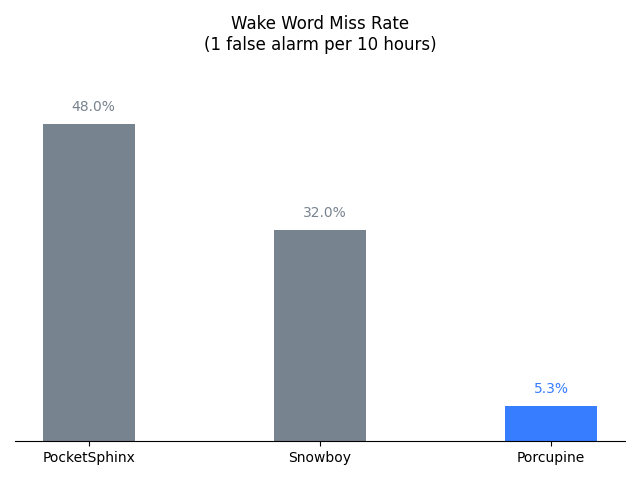
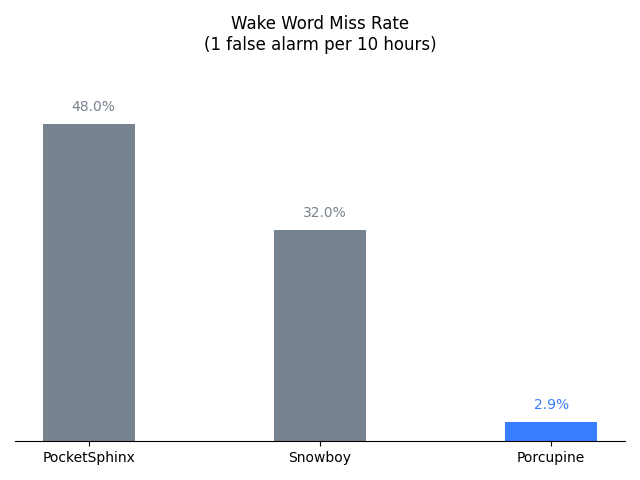
v2.0

Changed region(s): [[0.7812, 0.7812, 0.9375, 0.9062]]

diff --git a/benchmark.py b/benchmark.py
@@ -26,7 +26,7 @@ logging.basicConfig(format='%(asctime)s:%(levelname)s:%(message)s', level=loggin
 
 
 def run_sensitivity(pcm, num_frames, labels, num_keywords, engine_type, sensitivity):
-    detector = Engine.create(engine_type, keyword=args.keyword, sensitivity=sensitivity)
+    detector = Engine.create(engine_type, keyword=args.keyword, sensitivity=sensitivity, access_key=args.access_key)
 
     frame_length = Engine.frame_length()
 
@@ -64,7 +64,7 @@ def run(engine_type, min_false_alarm=0.1, max_false_alarm=0.1):
     frame_length = Engine.frame_length()
     num_frames = pcm.size // frame_length
 
-    labels = np.zeros((num_frames,), dtype=np.bool)
+    labels = np.zeros((num_frames,), dtype=bool)
     for start_sec, end_sec in keyword_times_sec:
         start_frame = int(start_sec * Dataset.sample_rate() // frame_length)
         end_frame = int((end_sec * Dataset.sample_rate() + (frame_length - 1)) // frame_length)
@@ -102,6 +102,7 @@ parser = argparse.ArgumentParser()
 parser.add_argument('--librispeech_dataset_path', required=True)
 parser.add_argument('--demand_dataset_path', required=True)
 parser.add_argument('--keyword', required=True)
+parser.add_argument('--access-key', required=True)
 
 if __name__ == '__main__':
     args = parser.parse_args()

diff --git a/engine.py b/engine.py
@@ -61,11 +61,11 @@ class Engine(object):
             raise ValueError("no sensitivity range for '%s'", engine_type.value)
 
     @staticmethod
-    def create(engine, keyword, sensitivity):
+    def create(engine, keyword, sensitivity, **kwargs):
         if engine is Engines.POCKET_SPHINX:
             return PocketSphinxEngine(keyword, sensitivity)
         elif engine is Engines.PORCUPINE:
-            return PorcupineEngine(keyword, sensitivity)
+            return PorcupineEngine(keyword, sensitivity, **kwargs)
         elif engine is Engines.SNOWBOY:
             return SnowboyEngine(keyword, sensitivity)
         else:
@@ -104,8 +104,9 @@ class PocketSphinxEngine(Engine):
 
 
 class PorcupineEngine(Engine):
-    def __init__(self, keyword, sensitivity):
+    def __init__(self, keyword, sensitivity, access_key):
         self._porcupine = Porcupine(
+            access_key=access_key,
             library_path=os.path.join(self._repo_path, 'lib/linux/x86_64/libpv_porcupine.so'),
             model_path=os.path.join(self._repo_path, 'lib/common/porcupine_params.pv'),
             keyword_paths=[os.path.join(self._repo_path, 'resources/keyword_files/linux/%s_linux.ppn' % keyword.lower())],

diff --git a/README.md b/README.md
@@ -8,47 +8,62 @@ The purpose of this benchmarking framework is to provide a scientific comparison
 engines in terms of accuracy and runtime metrics. While working on [Porcupine](https://github.com/Picovoice/Porcupine)
 we noted that there is a need for such a tool to empower customers to make data-driven decisions.
 
-# Data
+## Table of Contents
+- [Wake Word Benchmark](#wake-word-benchmark)
+  - [Table of Contents](#table-of-contents)
+  - [Results](#results)
+    - [Accuracy](#accuracy)
+    - [Runtime](#runtime)
+  - [Data](#data)
+  - [Engines](#engines)
+  - [How to Reproduce?](#how-to-reproduce)
+
+## Results
+
+### Accuracy
+
+Below is the result of running the benchmark framework averaged on six different keywords. The plot below shows the miss
+rate of different engines at 1 false alarm per 10 hours. The lower the miss rate the more accurate the engine is.
+
+![](doc/img/summary.png)
+
+### Runtime
+
+Below is the runtime measurements on a Raspberry Pi 3. For Snowboy the runtime highly-depends on the keyword. Therefore,
+we measured the CPU usage for each keyword and used the average.
+
+![](doc/img/cpu.png)
+
+## Data
 
 [LibriSpeech](http://www.openslr.org/12/) (test_clean portion) is used as background dataset. It can be downloaded
 from [OpenSLR](http://www.openslr.org/resources/12/test-clean.tar.gz).
 
 Furthermore, more than 300 recordings of six keywords (alexa, computer, jarvis, smart mirror, snowboy, and view glass)
 from more than 50 distinct speakers are used. The recordings are crowd-sourced. The recordings are stored within the
-repository [here](audio/).
+repository [here](audio).
 
 In order to simulate real-world situations, the data is mixed with noise (at 10 dB SNR). For this purpose, we use
 [DEMAND](https://asa.scitation.org/doi/abs/10.1121/1.4799597) dataset which has noise recording in 18 different
 environments (e.g. kitchen, office, traffic, etc.). It can be downloaded from
 [Kaggle](https://www.kaggle.com/aanhari/demand-dataset).
 
-# Wake Word Engines
+## Engines
 
 Three wake-word engines are used. [PocketSphinx](https://github.com/cmusphinx/pocketsphinx) which can
 be installed using [PyPI](https://pypi.org/project/pocketsphinx/). [Porcupine](https://github.com/Picovoice/Porcupine)
 and [Snowboy](https://github.com/Kitt-AI/snowboy) which are included as submodules in this repository. The Snowboy engine
 has a audio frontend component which is not normally a part of wake word engines and is considered a  separate part of
 audio processing chain. The other two engines have not such component in them. We enabled this component in Snowboy engine
-for this benchmark as this is the optimal way of running it. 
+for this benchmark as this is the optimal way of running it.
 
-# Metric
-
-We measure the accuracy of the wake word engines using false alarm per hour and miss detection rates. The false alarm
-per hour is measured as a number of false positives in an hour. Miss detection is measured as the percentage of wake word
- utterances an engine rejects incorrectly. Using these definitions we compare the engines for a given false alarm rate and
- the engine with a smaller miss detection rate has a better performance.
-
-The measured runtime metric is real time factor. Real time factor is computed by dividing the processing time to the
-length of input audio. It can be thought of as average CPU usage. The engine with a lower real time factor is more
-computationally efficient (faster).
-
-# Usage
+## How to Reproduce?
 
 ### Prerequisites
 
-The benchmark has been developed on Ubuntu 18.04 with Python 3.6. Clone the repository using
+The benchmark has been developed on Ubuntu 20.04 with Python 3.8. Clone the repository using
 
-```bash
+```console
 git clone --recurse-submodules git@github.com:Picovoice/wakeword-benchmark.git
 ```
 
@@ -61,33 +76,20 @@ to the next step.
 
 Usage information can be retrieved via
 
-```bash
-python benchmark.py -h
+```console
+python3 benchmark.py -h
 ```
 
 The benchmark can be run using the following command from the root of the repository
 
-```bash
-python benchmark.py --librispeech_dataset_path ${LIBRISPEECH_DATASET_PATH} --demand_dataset_path ${DEMAND_DATASET_PATH} --keyword ${KEYWORD}
+```console
+python3 benchmark.py \
+--librispeech_dataset_path ${LIBRISPEECH_DATASET_PATH} \
+--demand_dataset_path ${DEMAND_DATASET_PATH} \
+--keyword ${KEYWORD} \
+--access-key ${ACCESS_KEY}
 ```
 
 ### Running the Runtime Benchmark
 
 Refer to runtime [documentation](/runtime/README.md).
-
-# Results
-
-## Accuracy
-
-Below is the result of running the benchmark framework averaged on six different keywords. The plot below shows the miss
-rate of different engines at 1 false alarm per 10 hours. The lower the miss rate the more accurate the engine is.
-
-![](doc/img/summary.png)
-
-
-## Runtime
-
-Below is the runtime measurements on a Raspberry Pi 3. For Snowboy the runtime highly-depends on the keyword. Therefore
-we measured the CPU usage for each keyword and used the average.
-
-![](doc/img/cpu.png)
